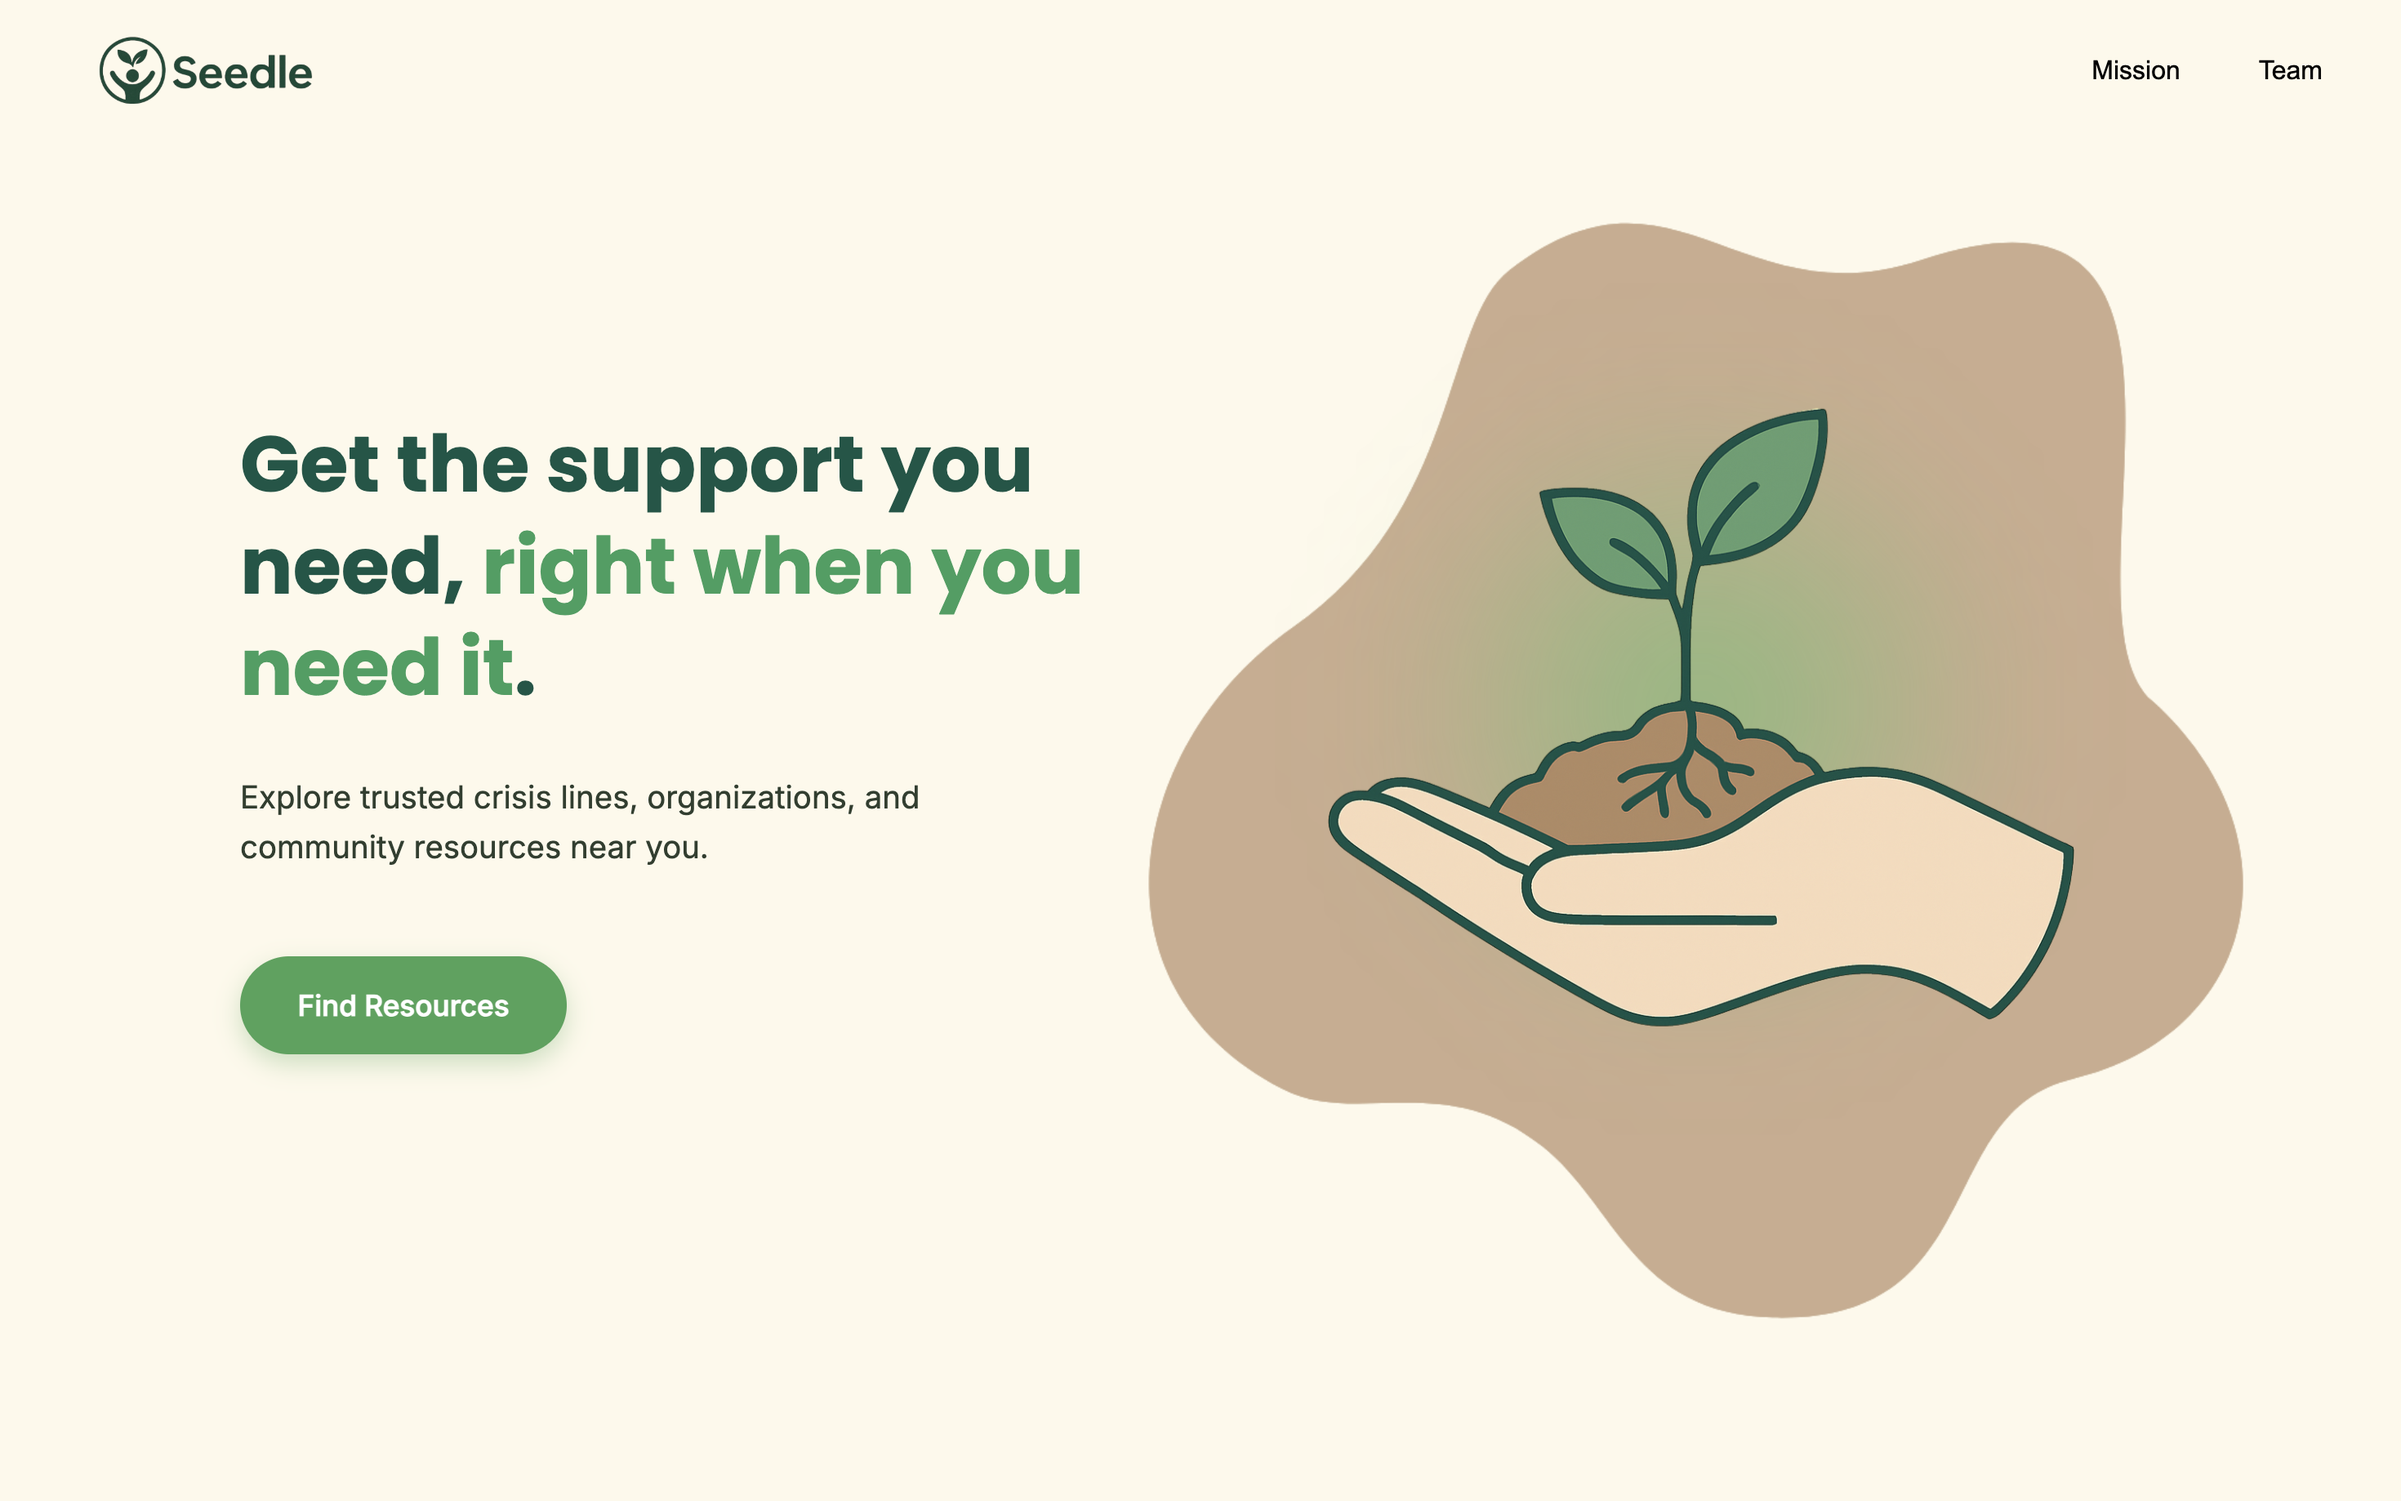
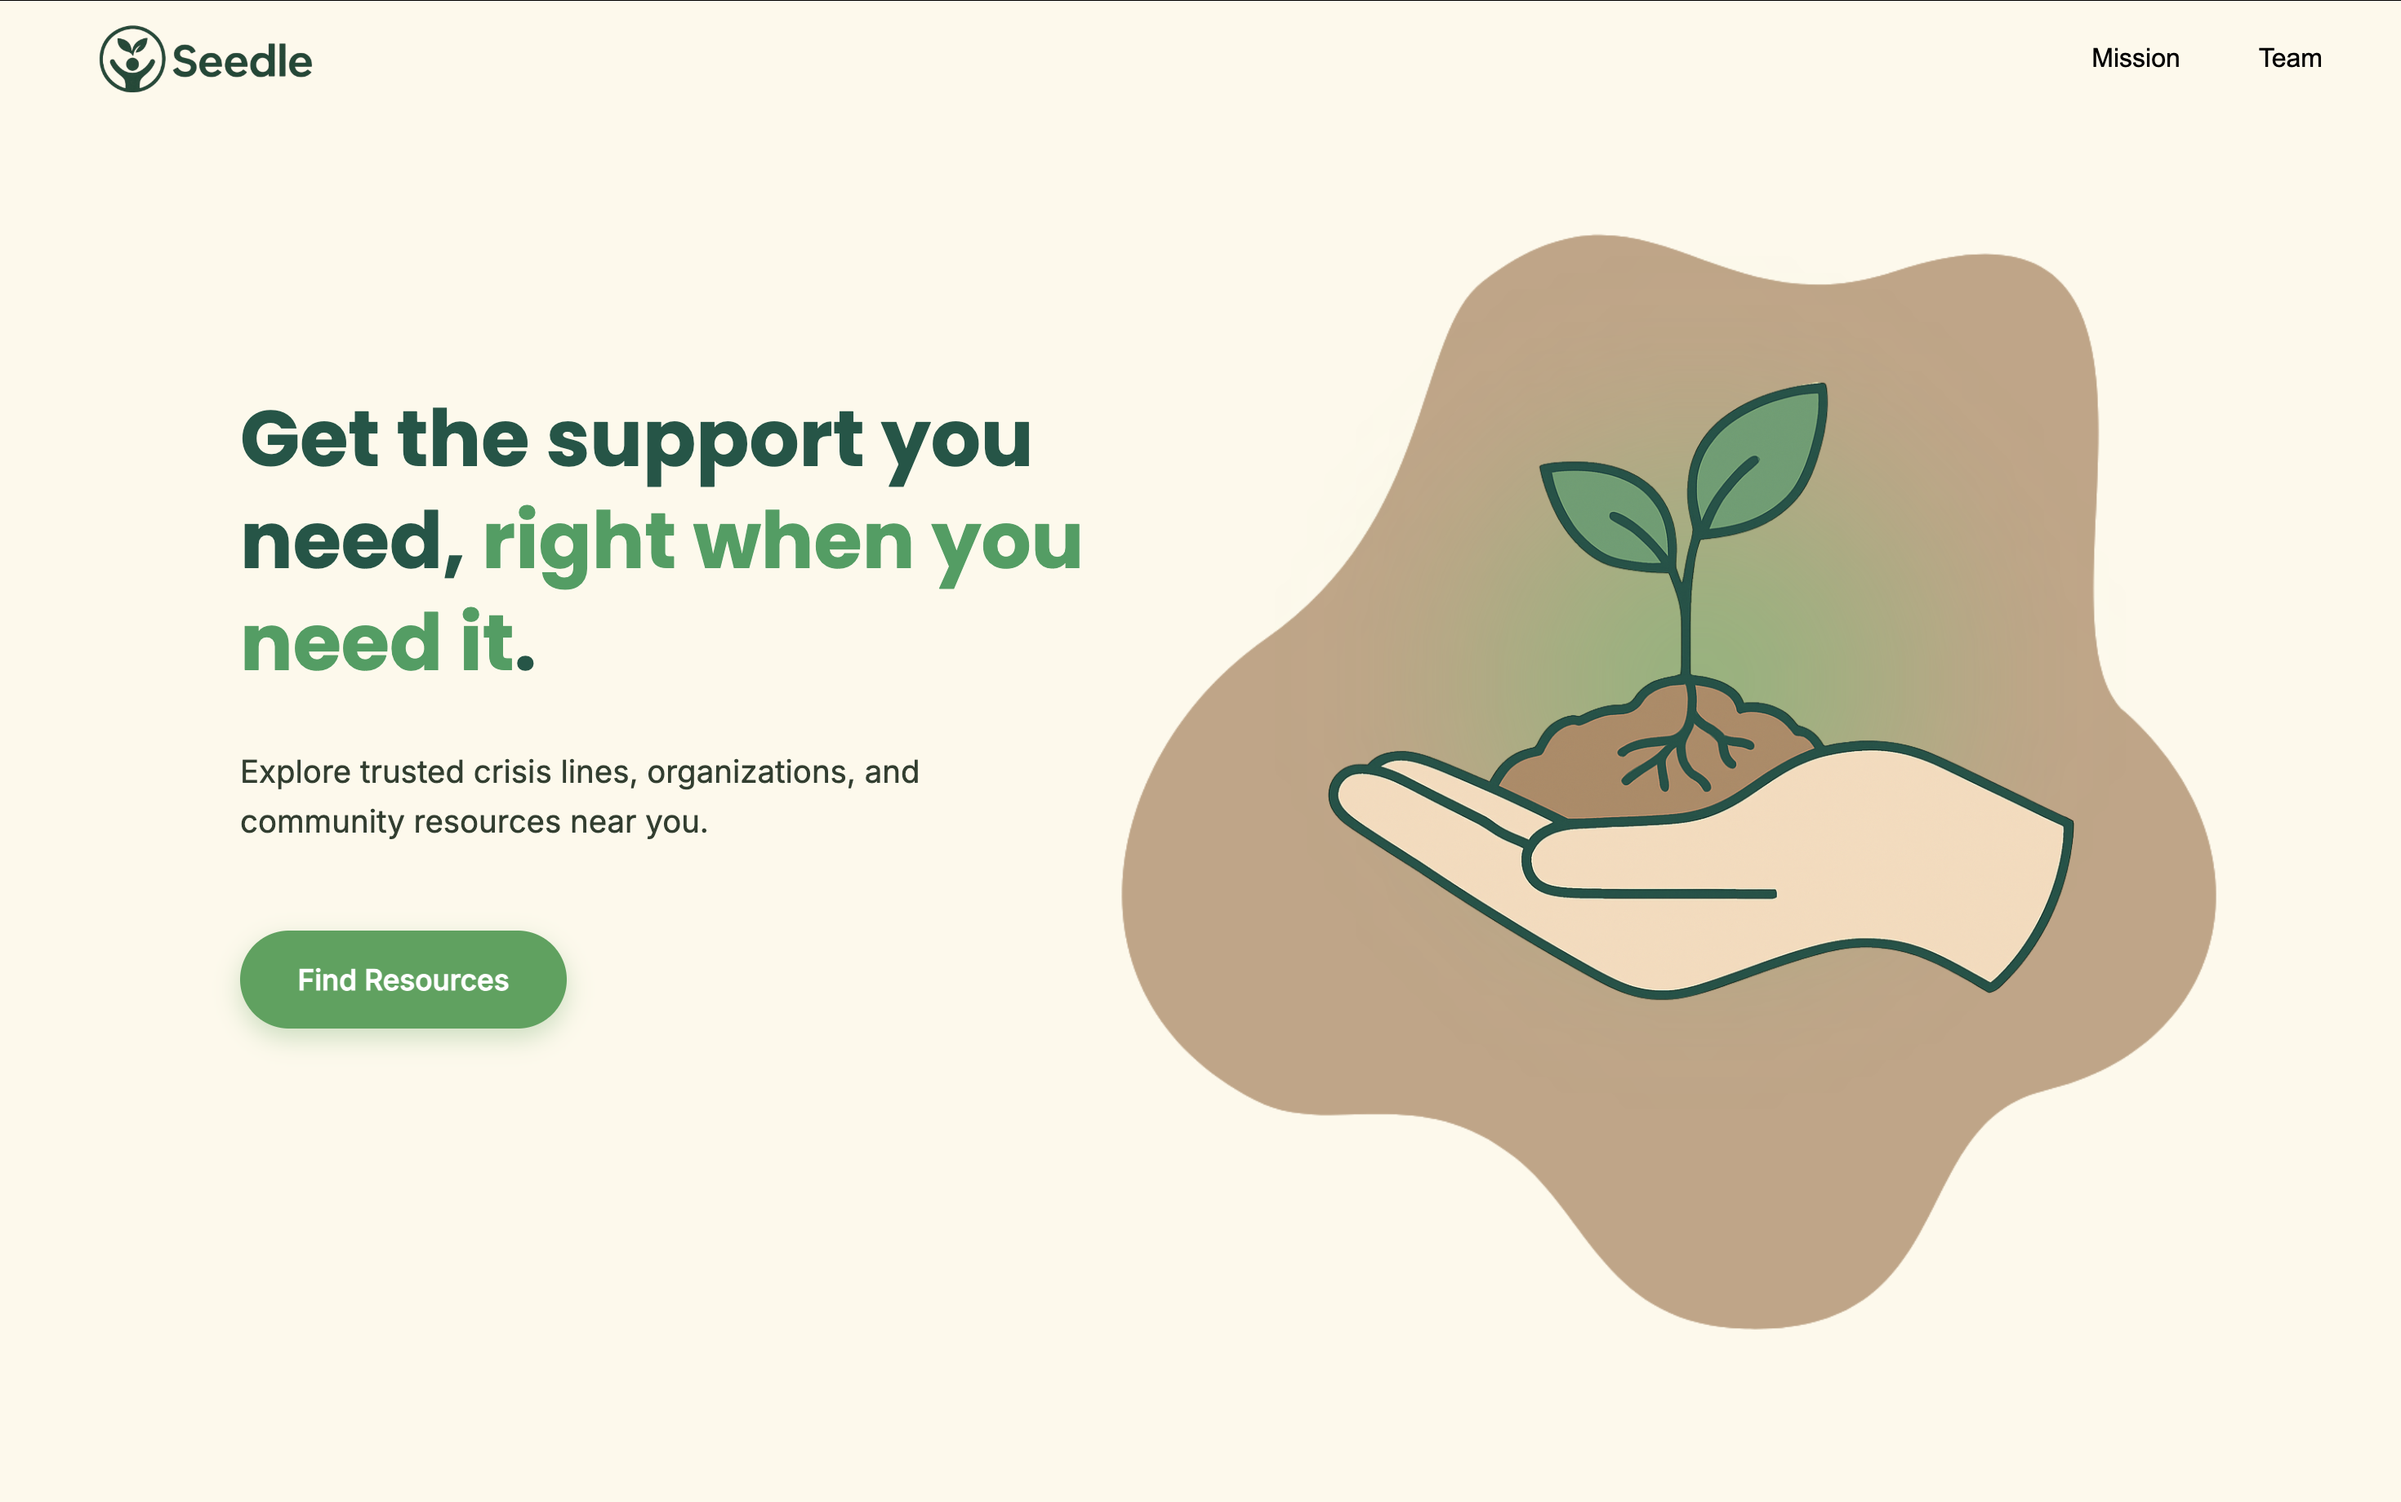
changes to header and index

diff --git a/header.css b/header.css
@@ -3,10 +3,18 @@ header {
   justify-content: space-between;
   align-items: center;
   padding: 1.2rem 3rem;
+  height: 4.5rem;
   background: transparent;
-  position: sticky;
+  position: fixed;
   top: 0;
-  z-index: 1;
+  left: 0;
+  right: 0;
+  z-index: 10;
+  box-sizing: border-box;
+}
+
+body {
+  padding-top: 4.5rem;
 }
 
 .logo {

diff --git a/index.css b/index.css
@@ -123,7 +123,7 @@
   padding: 4rem 10%;
   max-width: 75rem;
   margin: 0 auto;
-  margin-top: 2.5rem;
+  margin-top: 3.25rem;
   text-align: center;
 }
 
